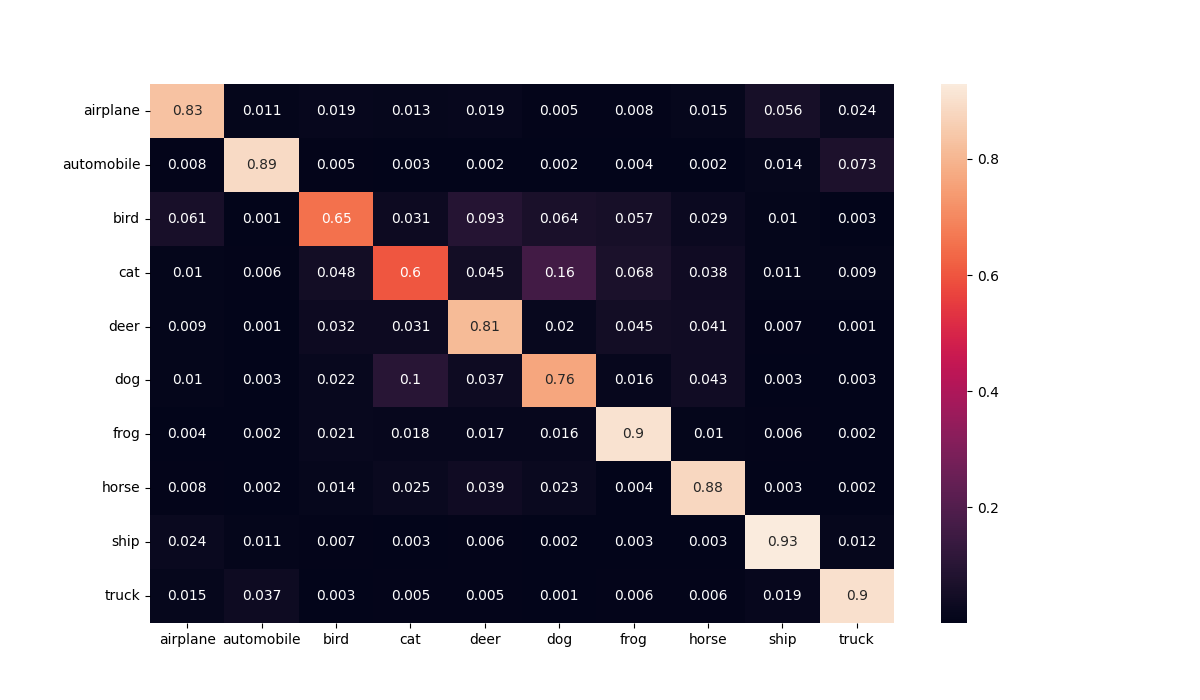
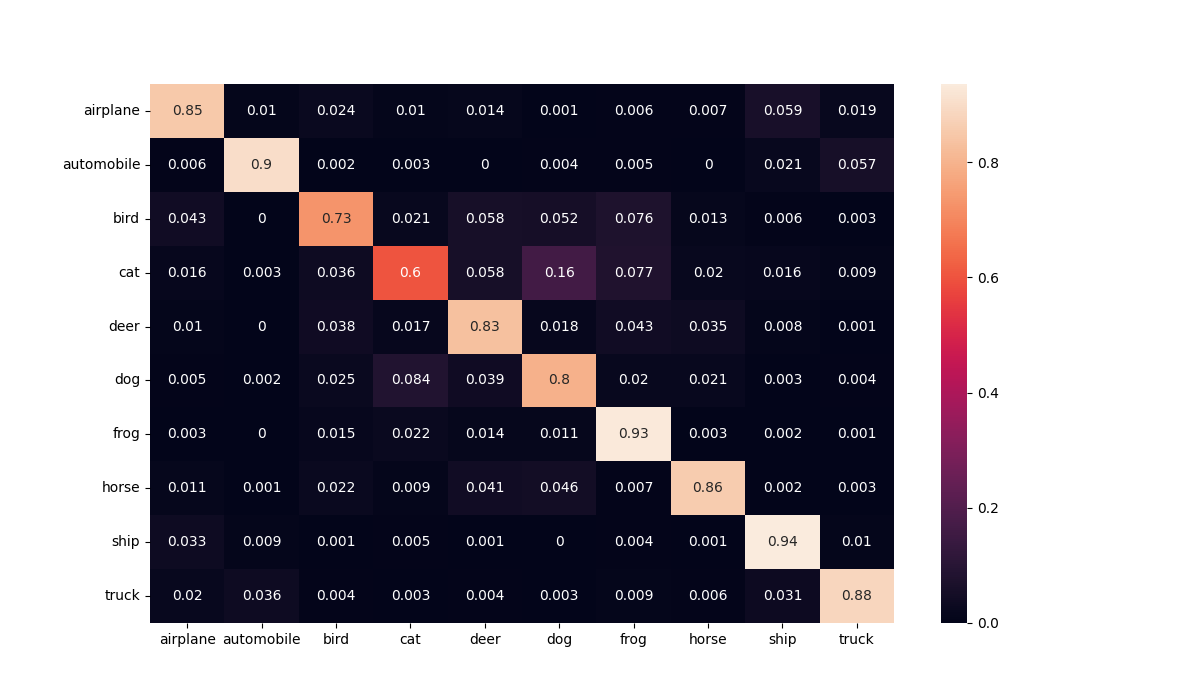
100 epochs

diff --git a/CIFAR10_CNN.py b/CIFAR10_CNN.py
@@ -12,7 +12,7 @@ import seaborn as sns
 device = ("cuda" if torch.cuda.is_available() else "mps" if torch.backends.mps.is_available() else "cpu")
 
 # Params
-num_epochs = 30
+num_epochs = 5
 batch_size = 100
 learning_rate = 0.001
 train_losses = np.zeros(num_epochs)
